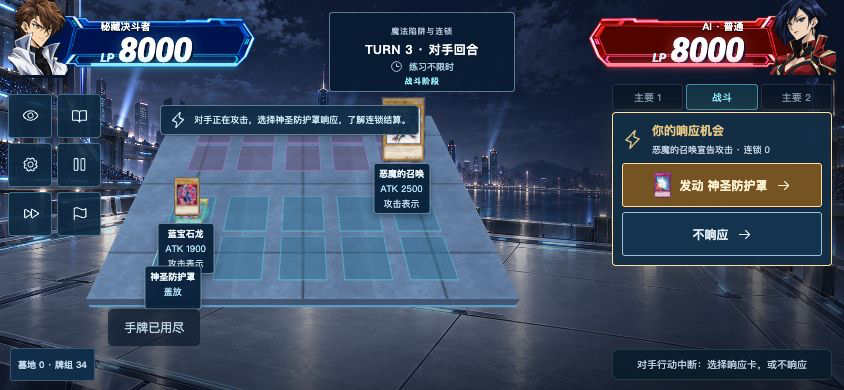
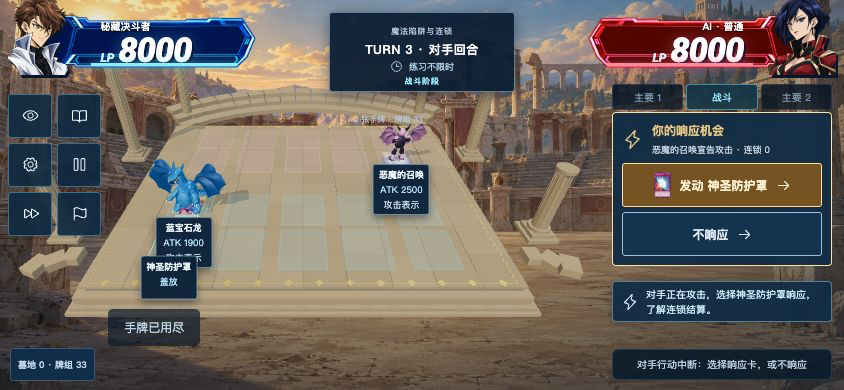
Update Astral Duel showcase with Roman arena and volumetric monster evidence

diff --git a/assets/screenshots/astral-duel/SOURCE.md b/assets/screenshots/astral-duel/SOURCE.md
@@ -9,38 +9,41 @@
 
 ## Public release and scope / 公开试玩与范围
 
-- [Play on Toy](https://www.bilibili.com/toy/astral-duel-game/index.html): published on 2026-10-09, Toy ID `42086522945536`, visibility PUBLIC. The four-strategy version was opened in Chrome after publication. The drag-to-play / new battle visual update was submitted for review on the same date; its Toy platform preview was exercised in Chrome before submission. Latest update status: published. The formal Toy URL was opened in Chrome and the new battle HUD / chain response were verified after publication.
+- [Play on Toy](https://www.bilibili.com/toy/astral-duel-game/index.html): Toy ID `42086522945536`, visibility PUBLIC, previously published on 2026-10-09. The Roman arena / volumetric-monster update was previewed and exercised in Chrome, then submitted on 2026-10-10. Latest CLI status: **auditing**; the formal URL stays unchanged. Final tested preview: https://www.bilibili.com/toy/preview/preview_BTpeQTB3/index.html .
 - Free browser game with a Chinese interface, WebGL, mouse/touch controls, and no mandatory game login or installation. Progress is saved in the current browser.
 - Toy supports AI duels, three tutorials, four challenges, summoning, collection and deck editing. Real online PK and friend rooms require deploying the separate full-version server; Toy does not simulate online players.
 - Four distinct free 40-card presets cover tempo, spell control, defense/counterplay and tribute pressure. Only the dragon/tribute preset includes Blue-Eyes. Tutorials use low-level monsters; challenges cover tribute summons, quick-spell breakthrough, trap reversal and graveyard revival. These are classic small-pool strategy templates, not the complete modern OCG or competitively calibrated archetypes.
-- Arena, cards and effects use Three.js; monsters remain 2.5D sprites/card projections. The side inspector, server-legal drag-and-drop placement, public-stat damage preview and chain-response tray were exercised. New original anime portraits, blue/red HUDs, bold outlined LP, brighter metal zones and a short card-front reveal adapt a Duel Links visual reference to the landscape board. Key phone buttons measured at least 44 CSS pixels high at 844×390.
+- Arena, cards and effects use Three.js. The 2026-10-10 update replaces all 18 playable monsters with local volumetric mesh sculptures, physical materials, shadows, articulated idle/wing motion, summon materialization and attack motion. A rotatable/zoomable close-up is available for visible monsters. Face-down monsters never materialize. These are stylized prototype models; the finer sculpting/texturing and complete skeletal animation in the concept art are not claimed as finished. The arena now uses physical stone slabs, broken Roman columns, terraces and a generated nostalgic anime sunset backdrop. The side inspector, server-legal drag-and-drop placement, public-stat damage preview and chain-response tray were exercised. New original anime portraits, blue/red HUDs, bold outlined LP, brighter metal zones and a short card-front reveal adapt a Duel Links visual reference to the landscape board. Key phone buttons measured at least 44 CSS pixels high at 844×390.
 
 ## Actual screenshots / 实机截图
 
-Captured by the creator's Codex session on **2026-10-09**, without synthetic UI or concept rendering. All PNGs are below 4 MB. Latest Toy battle captures use Chrome; the drag preview uses the local in-app browser.
+Captured by the creator's Codex session on **2026-10-09 and 2026-10-10**, without synthetic UI or concept rendering. All PNGs are below 4 MB. Latest Toy battle captures use Chrome; the drag preview uses the local in-app browser.
 
 | File | Size | Version and visible behavior |
 | --- | --- | --- |
-| [gameplay.png](gameplay.png) | 1280×720 | Latest submitted Toy build, platform preview: the new anime HUD, Summoned Skull attacking Luster Dragon and a Mirror Force response. This is the README cover. |
+| [gameplay.png](gameplay.png) | 1152×638 | 2026-10-10 final Toy platform preview: Roman ruins, volumetric Luster Dragon / Summoned Skull and Mirror Force response. Resized from the intact 1501×832 capture to keep the README cover under 1 MiB. |
 | [strategies.png](strategies.png) | 1280×720 | Previous four-strategy Toy build: lobby with four preset strategies. |
 | [revival-mobile.png](revival-mobile.png) | 844×390 | Local full-server build: graveyard-revival challenge and card inspector. |
 | [summon-mobile.png](summon-mobile.png) | 844×390 | Local full-server build: Summoned Skull's purple summon effect. |
 | [strategies-mobile.png](strategies-mobile.png) | 844×390 | Local full-server build: preset choice on a phone-sized landscape viewport. |
-| [battle-mobile.png](battle-mobile.png) | 844×390 | Latest Toy platform preview: new HUD and readable chain-response buttons. |
+| [battle-mobile.png](battle-mobile.png) | 844×390 | 2026-10-10 final Toy platform preview: entity monsters, ruin arena and 44px response controls. |
+| [kuriboh-model.png](kuriboh-model.png) | 1280×720 | 2026-10-10 local full-server build: actual rotatable Kuriboh mesh, instanced fur, eyes and claws. |
+| [roman-kuriboh.png](roman-kuriboh.png) | 1280×720 | 2026-10-10 local full-server build after dragging Kuriboh out of hand and summoning it on the stone arena. |
 | [drag-mobile.png](drag-mobile.png) | 844×390 | Latest local build: keyboard pickup and highlighted legal defense drop zones. |
 
-The older revival, summon and preset screenshots document source revision `a5dc6fa`; new battle/drag captures document the current update. The local and Toy versions share the UI and use different connection adapters. The table identifies each capture environment; no screenshot is a claim of live multiplayer on Toy.
+The older revival, summon and preset screenshots document source revision `a5dc6fa`; drag-mobile documents `909d5e5`; the new Roman arena and model captures document the 2026-10-10 update. The local and Toy versions share the UI and use different connection adapters. The table identifies each capture environment; no screenshot is a claim of live multiplayer on Toy.
 
 ## Verification / 验证记录
 
-For game source revision `909d5e5beea73ad33eb42c27e46416fc163ff873`, checked 2026-10-09:
+For game source revision `9afa79a675190f16a3ca5a0fc284a3da98b20f33`, checked 2026-10-10:
 
-- 60 rule, real two-client network, collection, static-adapter, battle-display and drag-placement tests passed, covering the four presets, all seven tutorials/challenges and 11 drop legality / cancellation / hidden-target cases.
+- 65 rule, real two-client network, collection, static-adapter, battle-display and drag-placement tests passed, covering the four presets, all seven tutorials/challenges and 11 drop legality / cancellation / hidden-target cases, plus five volumetric-model tests: full playable-pool coverage, hidden state, finite 3-axis geometry, mesh picking, motion and disposal.
 - Full-server and Toy production builds passed. All 28 protected runtime files remained intact.
 - Toy preflight reported no ERROR/WARN. Latest platform checks completed pointer drag placement in Chrome, keyboard placement in the in-app browser, the trap-response tutorial, 844×390 response layout and preservation of an existing browser collection. Local checks completed tribute and revival challenges, wrong-zone return, defense placement and direct quick-spell targeting.
+- Final Roman/mesh platform preview: https://www.bilibili.com/toy/preview/preview_BTpeQTB3/index.html . Browser checks verified preserved collection, correct arena/model rendering, 844×390 response layout and a successful trap-tutorial result with the destroyed actor removed.
 - The Toy bundle guard rejects unresolved server filesystem calls.
 - Full game source and its CI logs are private. These are recorded development checks, not publicly inspectable CI evidence; no private source/CI URL is presented as a public resource.
 
 ## Material credit / 素材说明
 
-Unofficial Yu-Gi-Oh fan prototype. Yu-Gi-Oh card names and card fronts are third-party content; generated original duelist portraits/HUD and arena/monster/ritual artwork and game code are separate. Original catalog text follows the repository's CC0 contribution terms. Game screenshots contain third-party card artwork and do not relicense it or claim official affiliation.
+Unofficial Yu-Gi-Oh fan prototype. Yu-Gi-Oh card names and card fronts are third-party content; generated original duelist portraits/HUD, arena/ritual artwork and custom monster mesh code are separate. Original catalog text follows the repository's CC0 contribution terms. Game screenshots contain third-party card artwork and do not relicense it or claim official affiliation.

diff --git a/README.md b/README.md
@@ -503,7 +503,7 @@ Logic puzzles, physics challenges, word games, and clever little mechanisms.
 
 Tower defense, strategic card games, management games, building, and simulation sandboxes.
 
-- **[Astral Duel / 星域决斗](https://www.bilibili.com/toy/astral-duel-game/index.html)** — Choose tempo, spell control, defense/counterplay or tribute pressure; build a 40-card deck, discover cards through a 3D summoning ritual, and play guided Yu-Gi-Oh-inspired duels against AI.
+- **[Astral Duel / 星域决斗](https://www.bilibili.com/toy/astral-duel-game/index.html)** — Choose tempo, spell control, defense/counterplay or tribute pressure; build a 40-card deck, discover cards through a 3D summoning ritual, and drag cards into nostalgic Roman ruins where 18 volumetric monsters animate in guided Yu-Gi-Oh-inspired AI duels.
   - Creator: [Ryan-fm](https://github.com/Ryan-fm).
   - Platform: WebGL browser; Chinese interface, mouse or touch. Free, no game login. Toy release supports AI duels, summoning and deck editing with local browser saves; online PK requires the separate full-version server.
   - Model participation: [Development and verification notes](assets/screenshots/astral-duel/SOURCE.md) — Iterative Codex collaboration; exact GPT-6 Astra attribution awaits creator confirmation. Unofficial fan prototype using third-party card artwork.

diff --git a/README.zh-CN.md b/README.zh-CN.md
@@ -503,7 +503,7 @@
 
 塔防、卡牌策略、经营建造与模拟沙盒。
 
-- **[星域决斗 / Astral Duel](https://www.bilibili.com/toy/astral-duel-game/index.html)** — 选择节奏突击、魔法控场、守备反击或上级压制四种路线，编成 40 张卡组；通过 3D 召唤发现新卡，在人机决斗中练习攻击、连锁与墓地复活。
+- **[星域决斗 / Astral Duel](https://www.bilibili.com/toy/astral-duel-game/index.html)** — 选择节奏突击、魔法控场、守备反击或上级压制四种路线，编成 40 张卡组；通过召唤发现新卡，将手牌拖入怀旧古罗马遗迹，在 18 种实体 3D 怪兽的人机决斗中练习攻击、连锁与墓地复活。
   - 作者：[Ryan-fm](https://github.com/Ryan-fm)。
   - 平台：支持 WebGL 的浏览器，中文界面，鼠标或触控；免费，无需游戏账号。Toy 发布版支持人机、召唤和组卡，进度保存在当前浏览器；在线 PK 需要单独部署完整版服务器。
   - 模型参与：[开发与核验记录](assets/screenshots/astral-duel/SOURCE.md) — 通过多轮 Codex 协作开发；具体 GPT-6 Astra 归因等待创作者确认。非官方同人原型，包含第三方卡牌美术。
